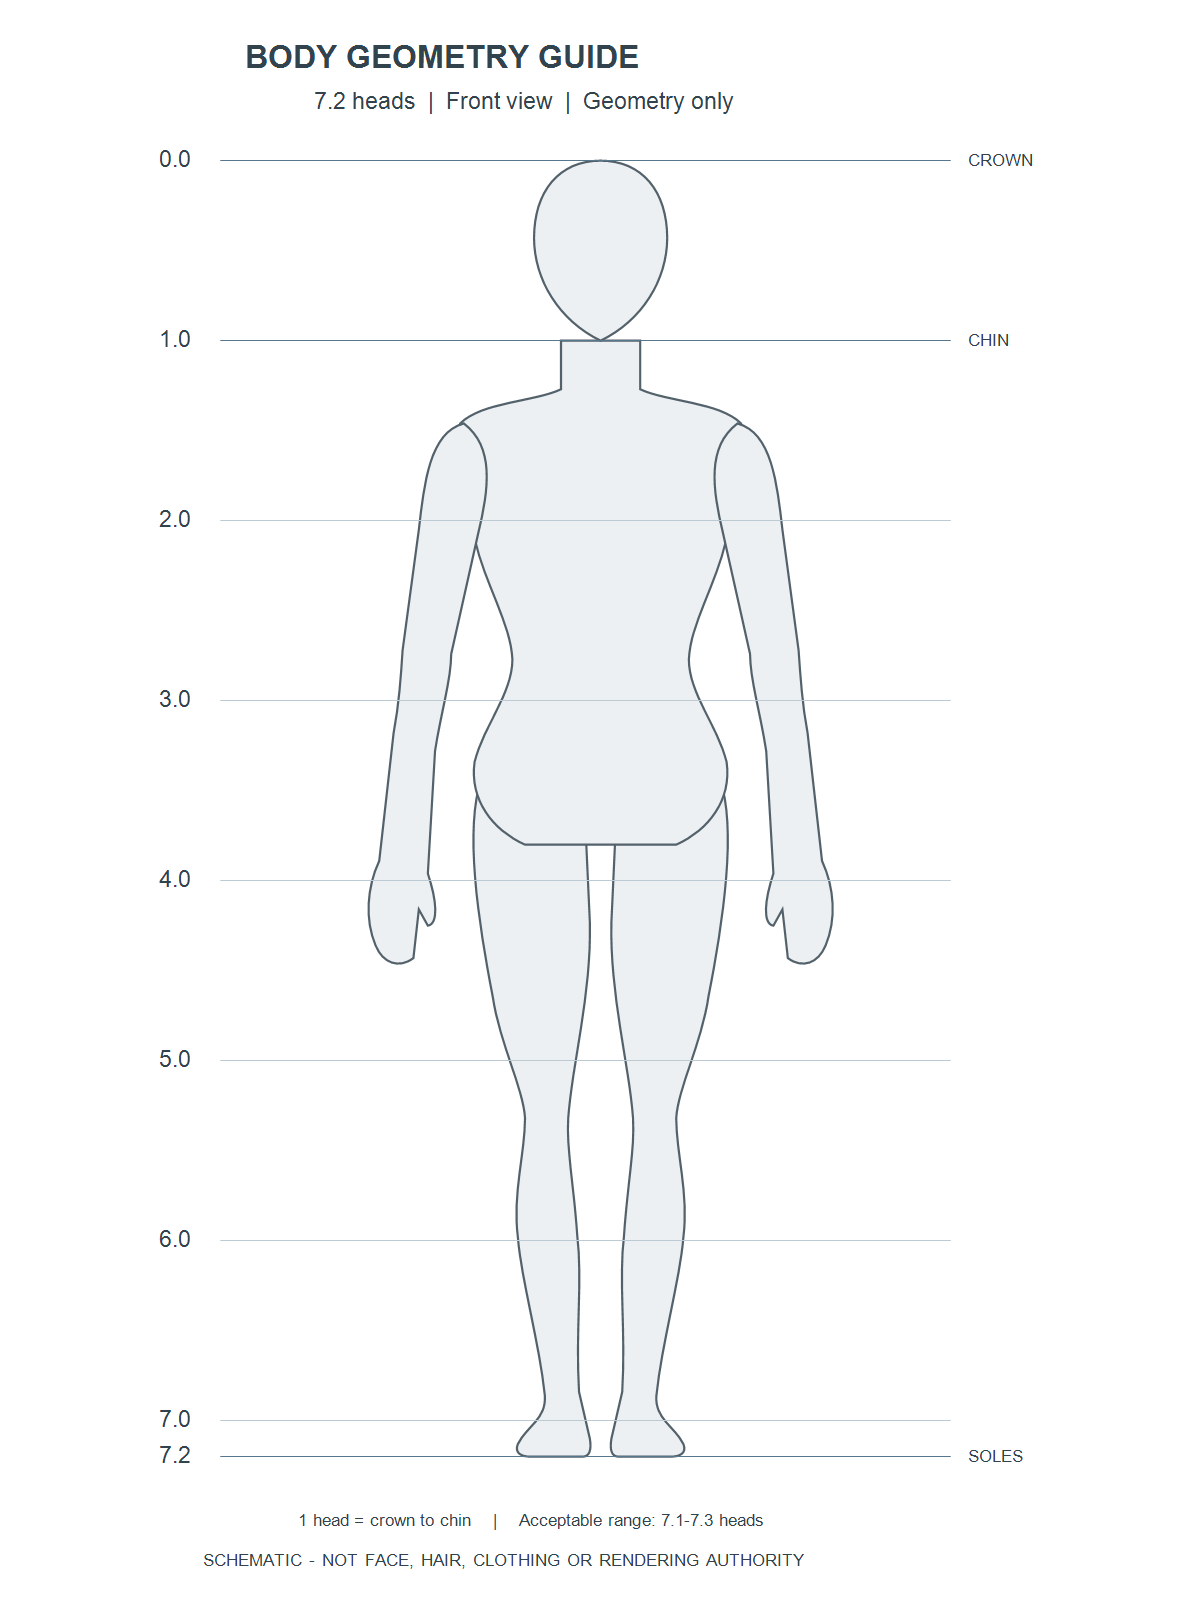
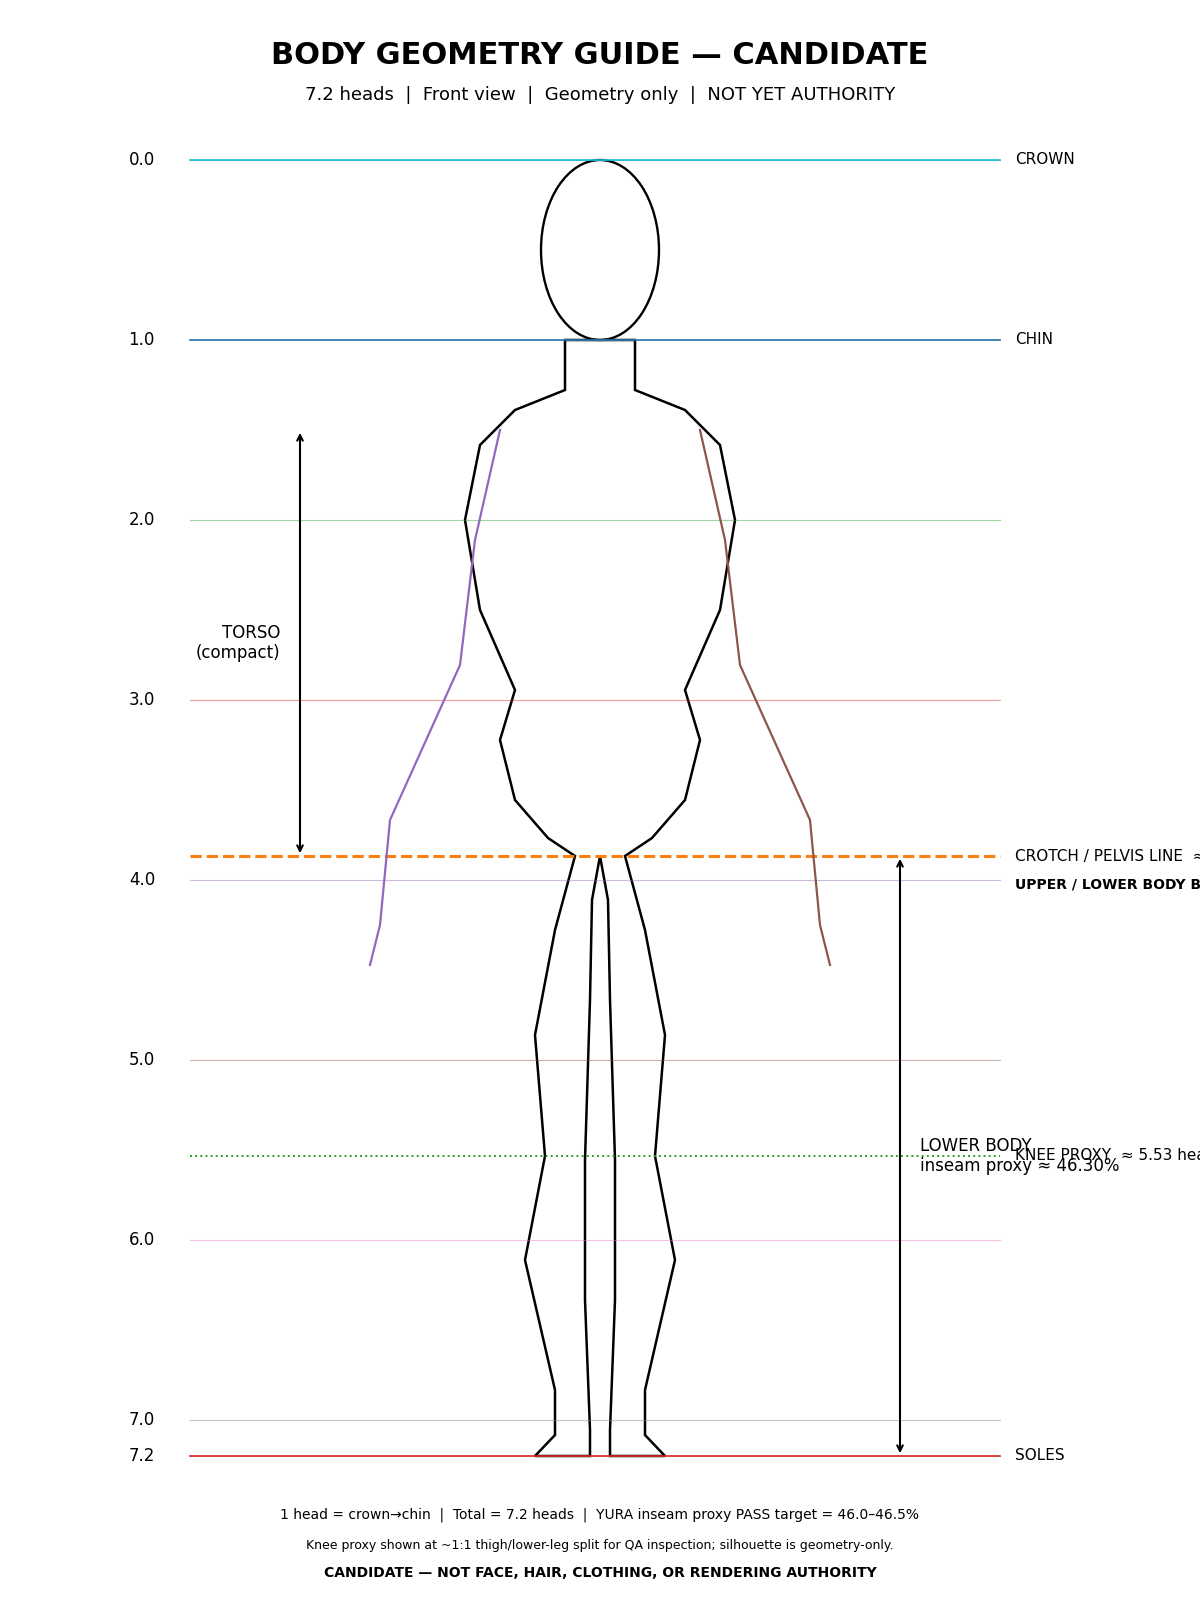
Replace YURA Body Geometry guide with approved long-leg geometry

diff --git a/visuals/yura/identity/body/BODY_GEOMETRY_GUIDE.md b/visuals/yura/identity/body/BODY_GEOMETRY_GUIDE.md
@@ -1,192 +1,95 @@
-# YURA BODY GEOMETRY GUIDE
+# YURA BODY GEOMETRY GUIDE — CANDIDATE SPEC
 
-Status: **AUTHOR-APPROVED / ACTIVE**
+Status: **CANDIDATE / NOT AUTHORITY / AUTHOR REVIEW REQUIRED**
 
-Authority image:
-`visuals/yura/identity/body/YURA_BODY_GEOMETRY_GUIDE.png`
+Candidate image:
+`YURA_BODY_GEOMETRY_GUIDE_CANDIDATE.png`
 
-この文書は、YURAの全身比率を7.2頭身で固定するためのBODY Geometry Authority定義である。
-GitHub `main` 上のガイド画像は、作者承認済み候補画像と同一であることを確認済み。
+## Purpose
 
-**BODY GEOMETRY IMAGE AUTHORITY = ACTIVE**
+This candidate makes the upper/lower-body boundary explicit and encodes the author-approved
+YURA long-leg balance without changing the total **7.2-head** target.
 
-## Active guide
+It is intended to replace the active guide **only after explicit author approval**.
 
-作者承認済みAuthority画像:
-- dimensions: **1200 × 1600 px**
-- format: **PNG / RGBA**
-- SHA-256: **da18dbd7a8cdc9c3659f83ca8970349c18923bd4b4e29bcedf1f1b8cb1e7e379**
-- Git blob SHA: **63f5a6496afac5a142e63a7b329cc7d0ffc3c6b7**
+## Fixed geometry
 
-実測基準:
-- crown / 0.0: y = 160 px
-- chin / 1.0: y = 340 px
-- 1 head = 180 px
-- soles / 7.2: y = 1456 px
-- (1456 - 160) / 180 = **7.2 heads**
+- canvas: **1200 × 1600 px**
+- crown: **y = 160**
+- chin: **y = 340**
+- one head: **180 px**
+- soles: **y = 1456**
+- total: **7.2 heads**
 
-このAuthority画像と異なるファイルを、同名だからという理由だけでAuthorityへ昇格させてはならない。
-画像を差し替える場合は、再検証・作者承認・ハッシュ更新を必須とする。
+## Explicit upper/lower-body boundary
 
-## Target geometry
+The standing full-body boundary is:
 
-全身は **7.2頭身** をTARGETとする。
+**CROTCH / PELVIS LINE = UPPER / LOWER BODY BOUNDARY**
 
-頭頂から顎先までの頭部高を1.0とした場合、頭頂から足裏までを7.2とする。
+Candidate boundary:
+- crotch / pelvis-line proxy: **y = 856**
+- crown→crotch: **3.8667 heads**
+- chin→crotch: **2.8667 heads**
 
-**TARGET = 7.2 heads**
-**ACCEPTABLE RANGE = 7.1〜7.3 heads**
+This boundary must be visible in the guide image and named in the text Authority.
 
-## Authority scope
+## Author-approved YURA inseam proxy
 
-`YURA_BODY_GEOMETRY_GUIDE.png` は以下のみのAuthorityとする。
-
-- 頭部と全身の相対スケール
-- 7.2頭身の分割位置
-- 肩・胸郭・腰・骨盤・股・膝・足首などの縦方向配置
-- 全身シルエットの大枠
-- 全身上の頭部配置
-- 全身Geometry QA
-
-## Explicitly denied authority
-
-このガイド画像は以下のAuthorityではない。
-
-- 顔Identity
-- 顔の縦横比
-- 目の形・大きさ・間隔
-- 眉・鼻・口
-- 中顔面・下顔面
-- 頬・顎
-- 髪型Identity
-- 耳Identity
-- 表情
-- 衣装デザイン
-- レンダリングスタイル
-
-**BODY_GEOMETRY_GUIDE -> FACE_GEOMETRY = DENIED**
-**BODY_GEOMETRY_GUIDE -> FACE_IDENTITY = DENIED**
-
-## Geometry rules
-
-7.2頭身は、胴体・脚・肩幅・腰幅・胸郭・四肢を不自然に大型化して成立させない。
-脚だけを不自然に長くしない。
-胴だけを不自然に長くしない。
-肩幅や骨格を大きくしない。
-体格そのものを大きく見せない。
-
-YURAの7.2頭身では、**上半身を縦方向に間延びさせない**。
-首・胸郭・腹部・腰・骨盤までを長く引き延ばして頭身を稼がない。
-
-作者意図として、全身バランスは **骨盤／股位置がやや高めで、下半身がわずかに長く見える方向** を採用する。
-日本語で「座高がやや低い印象」と表現してよいが、立位全身生成での実運用定義は以下とする。
-
-- 顎から股までの上半身スパンを不必要に長くしない
-- 胸郭から腰・骨盤までのtorso spanをコンパクトに保つ
-- 腰位置を不自然に低くしない
-- 骨盤／股位置をわずかに高めに保つ
-- 股から足裏までの下半身をわずかに長く見せる
-- 膝位置は自然に保つ
-- 下半身を長く見せるために脚だけを機械的に伸ばさない
-- 上半身を短く見せるために胸郭・腹部を不自然に圧縮しない
-
-**UPPER BODY MUST NOT BE VERTICALLY ELONGATED.**
-**TORSO MUST BE COMPACT; DO NOT LENGTHEN THE RIBCAGE-TO-PELVIS OR WAIST SPAN.**
-**KEEP THE PELVIS/CROTCH POSITION SLIGHTLY HIGH, WITH A SUBTLY LONGER LOWER BODY.**
-**LOW SITTING-HEIGHT IMPRESSION = RELATIVELY COMPACT UPPER-BODY SPAN + SLIGHTLY LONGER LOWER BODY.**
-**DO NOT CREATE THE LOWER-BODY EMPHASIS BY LEG-ONLY STRETCHING.**
-
-この「下半身がわずかに長い」は、7.2頭身という全体比率の中での内部配分であり、モデル体型のような極端な長脚化を意味しない。
-BODY Geometry Guideの人物内部ランドマーク配置を優先し、自然なシルエットを保持する。
-
-フェイスアップ画像のキャンバス内サイズ、トリミング、余白、頭部の画面占有率をBODY Geometryへ持ち込まない。
-
-DO NOT INFER BODY PROPORTION FROM FACE REFERENCE CROP OR SCALE.
-DO NOT USE FACE REFERENCE CANVAS OCCUPANCY AS BODY GEOMETRY.
-DO NOT CREATE A TALL MODEL-LIKE BODY TO SATISFY 7.2 HEADS.
-
-## Author-approved inseam proxy target
-
-YURAの立位Body Geometry QAでは、画像上の股下比率proxyを以下で定義する。
+Definition:
 
 ```text
 inseam_proxy_ratio = (soles_y - crotch_y) / (soles_y - crown_y)
 ```
 
-これは実身長・実寸股下の測定ではなく、正面立位RAW画像上での **crotch-to-soles / crown-to-soles の画像空間proxy** である。
+Candidate value:
 
-作者承認済みのYURA用運用値:
+- **46.2963%**
 
-- **PASS TARGET = 46.0%〜46.5%**
-- **MODEL-LIKE HARD GUARD = 47.0%以上はFAIL**
-- 46.5%超〜47.0%未満もYURAのPASS TARGET外なのでFAILとする
+Required YURA QA target:
 
-この値は一般人体の普遍的基準としてではなく、YURAの「座高がやや低い印象」「骨盤位置やや高め」「下半身がわずかに長い」という作者意図を再現するためのキャラクター固有Body Geometry QA値として扱う。
+- **PASS = 46.0–46.5%**
+- **46.5% < ratio < 47.0% = FAIL**
+- **47.0% or more = HARD FAIL / too model-like**
 
-**YURA INSEAM PROXY TARGET = 46.0–46.5%.**
-**47.0% OR MORE IS FORBIDDEN AS TOO MODEL-LIKE.**
+This is a YURA-specific image-space geometry proxy, not a universal human-body standard.
 
-## Torso-specific numeric gate
+## Torso-specific intent
 
-総頭身とinseam proxyを同時に満たすとき、`chin→crotch` のtorso spanは次式で追跡する。
+The guide must communicate:
 
-```text
-chin_to_crotch_heads
-= ((crotch_y - chin_y) / (chin_y - crown_y))
-```
+- compact torso
+- no vertically elongated ribcage→waist→pelvis stack
+- waist must not read unnaturally low
+- pelvis/crotch slightly high
+- lower body subtly longer
+- do not obtain the target by stretching only the legs
+- do not obtain the target by compressing only the torso
 
-7.1〜7.3頭身かつinseam proxy 46.0〜46.5%という承認済み範囲から導かれるtorso envelopeは概ね:
+The approved total/inseam ranges imply an audit envelope for chin→crotch.
+The runtime QA should continue to enforce its configured torso-specific numeric gate.
 
-- **chin→crotch = 2.7985〜2.9420 heads**
+## Knee / lower-leg inspection
 
-これは新しい独立した体型値を発明したものではなく、承認済みの総頭身範囲とinseam proxy範囲から数学的に導かれる監査用envelopeである。
+Candidate knee proxy:
+- knee y: **1156**
+- crown→knee: **5.5333 heads**
+- thigh share of crotch→soles: **50.00%**
 
-- `chin_to_crotch_heads > 2.9420` は胴／上半身が長すぎるためFAIL
-- `chin_to_crotch_heads < 2.7985` は上半身を不自然に圧縮している可能性があるためFAIL
-- 数値範囲内でも、胸郭・腰・骨盤配置が不自然なら視覚QAでFAILできる
+The knee marker is primarily a QA landmark. A roughly balanced thigh/lower-leg split is useful
+for detecting thigh-only or shin-only stretching, but it should not override the approved
+Body Geometry Guide silhouette.
 
-**TORSO-SPECIFIC GATE = COMPACT TORSO + HIGHER PELVIS + YURA INSEAM PROXY PASS.**
+## Promotion procedure
 
-## Body Geometry QA landmarks
+Do **not** overwrite the active Authority immediately.
 
-RAW Master候補のBody Geometry QAでは、最低限以下の縦ランドマークを記録する。
+1. Author visually reviews this candidate.
+2. If approved, replace:
+   `visuals/yura/identity/body/YURA_BODY_GEOMETRY_GUIDE.png`
+3. Recompute SHA-256 and Git blob SHA.
+4. Update `BODY_GEOMETRY_GUIDE.md` with the approved image hashes and explicit boundary.
+5. Run free benchmark preflight.
+6. Only then perform another paid RAW generation.
 
-- crown
-- chin
-- crotch / pelvis-line proxy
-- knee
-- soles
-
-必須の数値判定:
-
-- crown→chin = 1.0 head
-- crown→soles = target 7.2 heads
-- acceptable total ratio = 7.1–7.3 heads
-- inseam proxy ratio = target 46.0–46.5%
-- inseam proxy ratio >= 47.0% = hard FAIL
-- chin→crotch torso envelope = 2.7985–2.9420 heads
-
-追加の内部ランドマーク値は、上半身の間延び・骨盤位置・下半身配分・膝位置を追跡するために記録する。
-
-以下はBody Geometry PASSの追加条件とする。
-
-- torsoがコンパクトで、胸郭→腰→骨盤が縦に間延びしていないことを作者が確認
-- 腰位置が不自然に低くないことを作者が確認
-- 骨盤／股位置がやや高めで、下半身がわずかに長い意図を満たすことを作者が確認
-- 膝位置が自然で、脚だけを伸ばした形になっていないことを作者が確認
-
-これらの確認結果と実測ランドマーク値は `body_geometry_qa.json` に残す。
-膝位置など、まだ作者承認済みの絶対数値閾値が固定されていない項目については、AIが勝手に閾値を発明してはならない。
-
-## Face identity preservation
-
-BODY Geometry調整時も、顔Identityは `YURA_FACE_REFERENCE.png` と `YURA_VISUAL_TEXT.md` に従う。
-BODY Geometry Guideは、顔内部を変更して頭身を成立させてはならない。
-
-FACE SHAPE MUST REMAIN IDENTICAL IN PROPORTION.
-BODY GEOMETRY GUIDE CONTROLS PROPORTION, NOT FACE IDENTITY.
-
-## Guide image requirement
-
-全身Master候補を作る際は、ACTIVEな `YURA_BODY_GEOMETRY_GUIDE.png` を7.2頭身のGeometry参照として使用する。
-フェイス画像をBODY Geometryの代替として使用してはならない。
+Until step 2–4 are completed, this file is not an active visual Authority.
